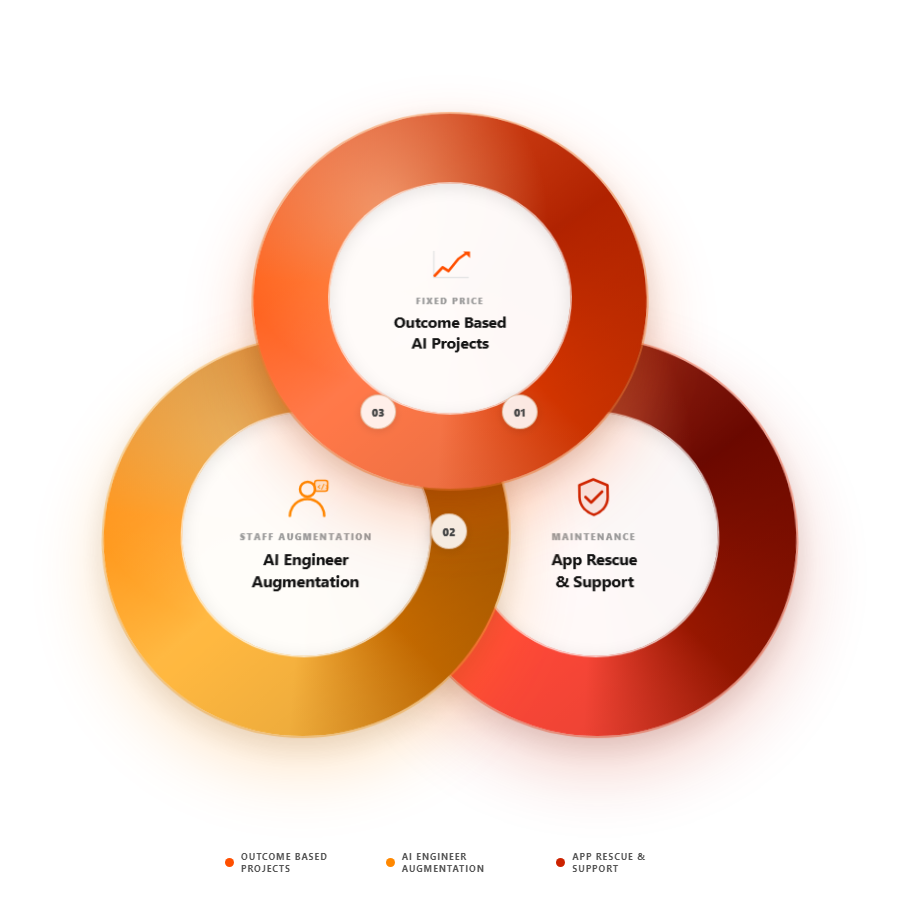
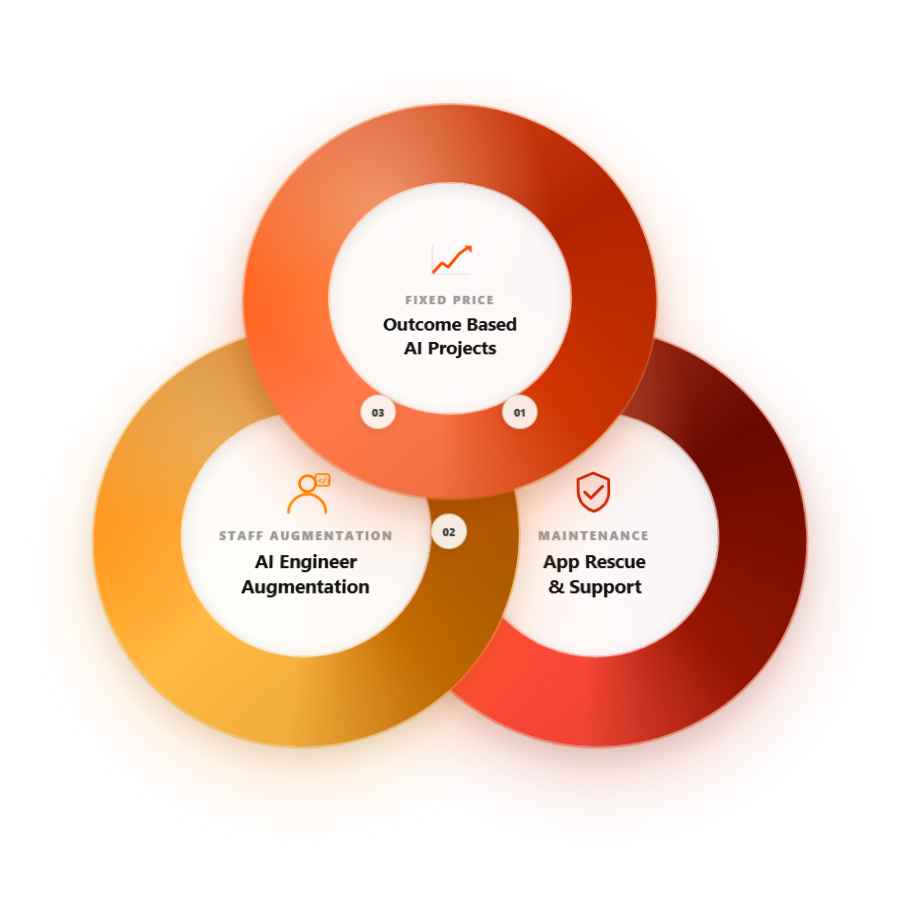
Hero image: larger rings, bigger text, remove legend
- Rings 400→420px, inner text chip 9→12px, title 15.5→18.5px
- Remove bottom legend strip from PNG
- Increase page container h-[580px]→h-[660px] to match new image weight

diff --git a/scripts/hero-homepage-circles-render.html b/scripts/hero-homepage-circles-render.html
@@ -39,7 +39,7 @@ html, body {
 /* ─── Ring base ───────────────────────────────────────── */
 .ring {
   position: absolute;
-  width: 400px; height: 400px;
+  width: 420px; height: 420px;
   border-radius: 50%;
 }
 
@@ -58,8 +58,9 @@ html, body {
 }
 
 /* ─── Ring 1  Orange  #FF4F00 ─────────────────────────── */
+/* 420px ring, radius 210 → centre (375,230): left=165, top=20 */
 .ring-1 {
-  left: 175px; top: 30px; z-index: 3;
+  left: 165px; top: 20px; z-index: 3;
   background:
     radial-gradient(ellipse at 34% 28%, rgba(255,230,190,0.50) 0%, transparent 44%),
     conic-gradient(from 228deg at 50% 50%,
@@ -72,8 +73,9 @@ html, body {
 }
 
 /* ─── Ring 2  Amber  #FF8800 ──────────────────────────── */
+/* centre (233,474): left=23, top=264 */
 .ring-2 {
-  left: 33px; top: 274px; z-index: 2;
+  left: 23px; top: 264px; z-index: 2;
   background:
     radial-gradient(ellipse at 34% 28%, rgba(255,240,180,0.46) 0%, transparent 44%),
     conic-gradient(from 228deg at 50% 50%,
@@ -86,8 +88,9 @@ html, body {
 }
 
 /* ─── Ring 3  Deep Red  #CC2200 ───────────────────────── */
+/* centre (517,474): left=307, top=264 */
 .ring-3 {
-  left: 317px; top: 274px; z-index: 1;
+  left: 307px; top: 264px; z-index: 1;
   background:
     radial-gradient(ellipse at 34% 28%, rgba(255,200,170,0.38) 0%, transparent 44%),
     conic-gradient(from 228deg at 50% 50%,
@@ -117,16 +120,16 @@ html, body {
 }
 
 /* ─── Icon, chip, title ───────────────────────────────── */
-.icon  { width: 46px; height: 46px; margin-bottom: 10px; }
+.icon  { width: 50px; height: 50px; margin-bottom: 10px; }
 
 .chip  {
-  font-size: 9px; font-weight: 800; letter-spacing: 0.15em;
+  font-size: 12px; font-weight: 800; letter-spacing: 0.14em;
   text-transform: uppercase; color: #999;
   margin-bottom: 6px;
 }
 
 .title {
-  font-size: 15.5px; font-weight: 700; line-height: 1.38;
+  font-size: 18.5px; font-weight: 700; line-height: 1.35;
   color: #111;
 }
 
@@ -143,18 +146,6 @@ html, body {
   box-shadow: 0 2px 8px rgba(0,0,0,0.10);
 }
 
-/* ─── Bottom legend ───────────────────────────────────── */
-.legend {
-  position: absolute; bottom: 26px; left: 50%;
-  transform: translateX(-50%);
-  display: flex; gap: 28px; align-items: center;
-}
-.leg-item {
-  display: flex; align-items: center; gap: 7px;
-  font-size: 9px; font-weight: 700; letter-spacing: 0.10em;
-  text-transform: uppercase; color: #555;
-}
-.leg-dot { width: 9px; height: 9px; border-radius: 50%; flex-shrink: 0; }
 </style>
 </head>
 <body>
@@ -218,19 +209,6 @@ html, body {
     <div class="zone" style="left:285px; top:333px;">03</div>
 
   </div><!-- /scene -->
-
-  <!-- Bottom legend — dark text for light background -->
-  <div class="legend">
-    <div class="leg-item">
-      <div class="leg-dot" style="background:#FF4F00"></div>Outcome Based Projects
-    </div>
-    <div class="leg-item">
-      <div class="leg-dot" style="background:#FF8800"></div>AI Engineer Augmentation
-    </div>
-    <div class="leg-item">
-      <div class="leg-dot" style="background:#CC2200"></div>App Rescue &amp; Support
-    </div>
-  </div>
 
 </div><!-- /wrap -->
 </body>

diff --git a/src/pages/HomePage.tsx b/src/pages/HomePage.tsx
@@ -307,7 +307,7 @@ export default function HomePage() {
             initial={{ opacity: 0, x: 20 }}
             animate={{ opacity: 1, x: 0 }}
             transition={{ duration: 0.6, delay: 0.15 }}
-            className="relative hidden lg:block h-[580px] w-full self-center"
+            className="relative hidden lg:block h-[660px] w-full self-center"
           >
             <Image
               src="/hero-homepage-circles-v2.png"
